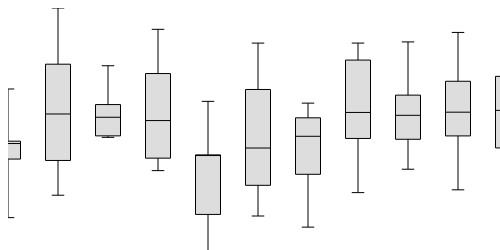
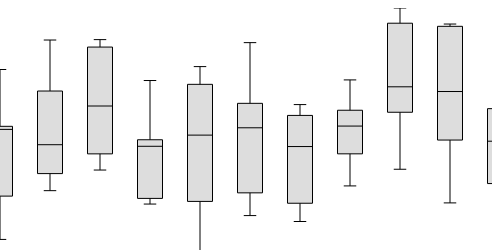
sets the screenshot margins

diff --git a/scripts/screenshot.js b/scripts/screenshot.js
@@ -2,17 +2,22 @@ const webshot = require('webshot');
 const fs = require('fs');
 const path = require('path');
 
+const bodyMargin = 8;
 const width = 500;
 const height = 250;
 
 const config = {
     screenSize: {
-        width: width,
-        height: height
+        width: width + bodyMargin,
+        height: height + bodyMargin
     },
     shotSize: {
         width: width,
         height: height
+    },
+    shotOffset: {
+        left: bodyMargin,
+        right: bodyMargin
     }
 };
 
